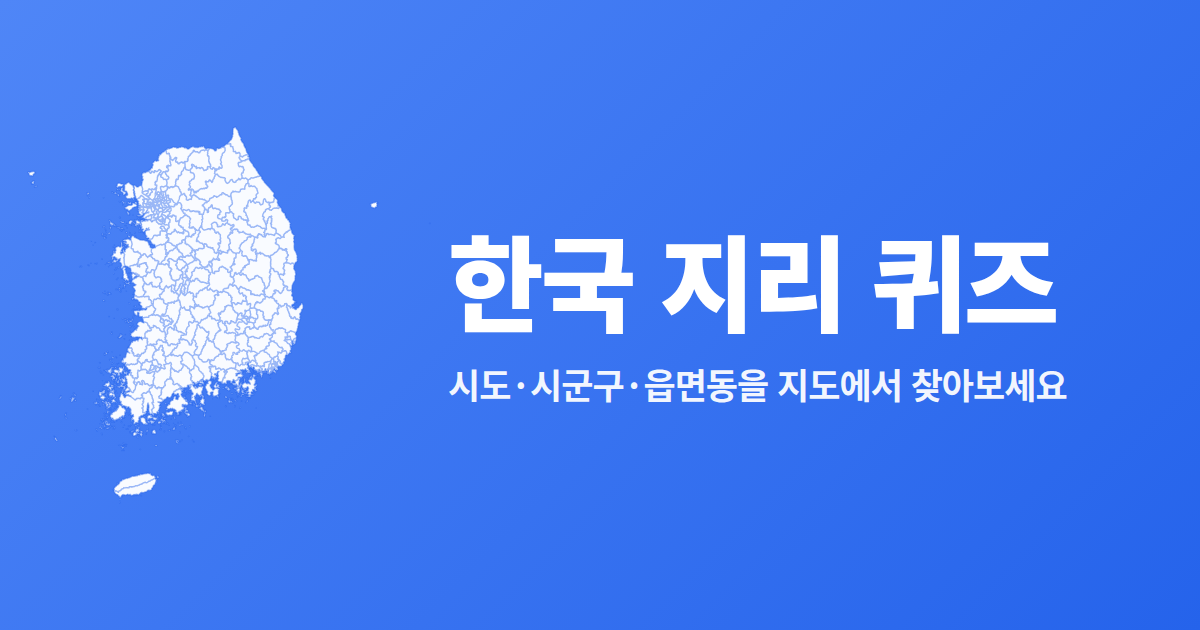
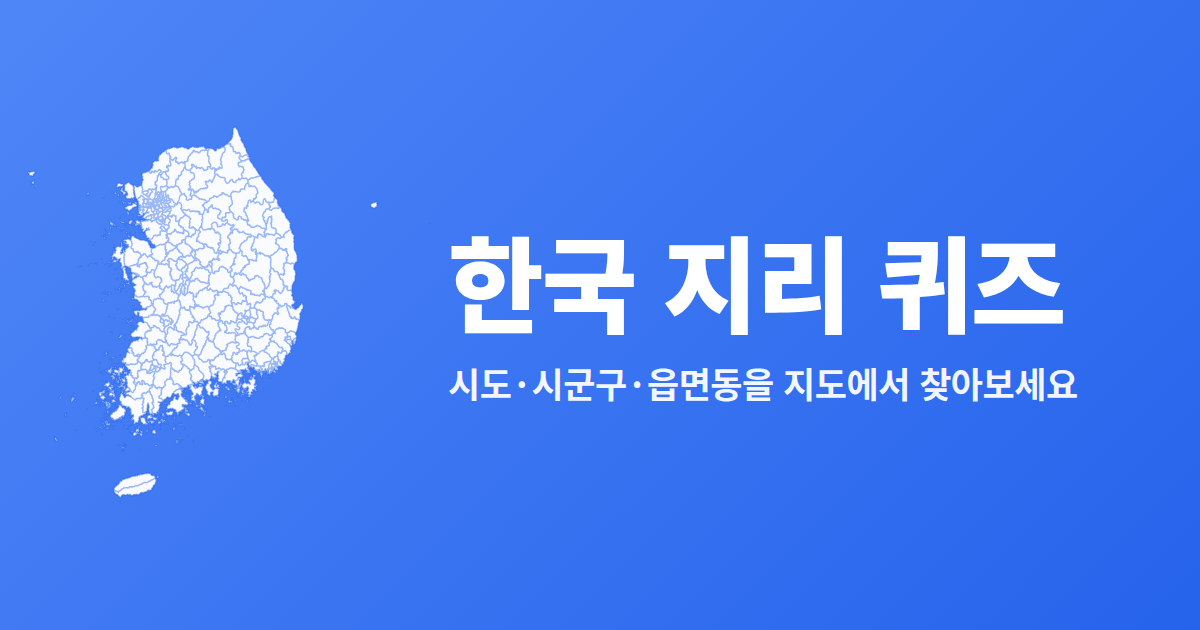
Add English OG image; serve it on /en
buildOgImage now renders both locales (ko → og-image.png, en →
og-image-en.png, "Korea Geography Quiz" / "Find provinces, districts &
towns on the map"). usePageMeta sets og:image + twitter:image per locale, so
sharing an /en URL shows the English card (prerendered /en pages bake it in).

Verified: /ko → og-image.png, /en → og-image-en.png; tsc/vite build pass.

diff --git a/src/hooks/usePageMeta.ts b/src/hooks/usePageMeta.ts
@@ -60,6 +60,10 @@ export function usePageMeta({
     // otherwise every sub-page shows the static homepage title when shared.
     setMeta('twitter:title', title);
     setMeta('twitter:description', description);
+    // Locale-specific share image (English card on /en).
+    const ogImage = `${BASE_URL}/${locale === 'en' ? 'og-image-en.png' : 'og-image.png'}`;
+    setMeta('og:image', ogImage, 'property');
+    setMeta('twitter:image', ogImage);
 
     setLink('canonical', canonical);
     setLink('alternate', koUrl, 'ko');
